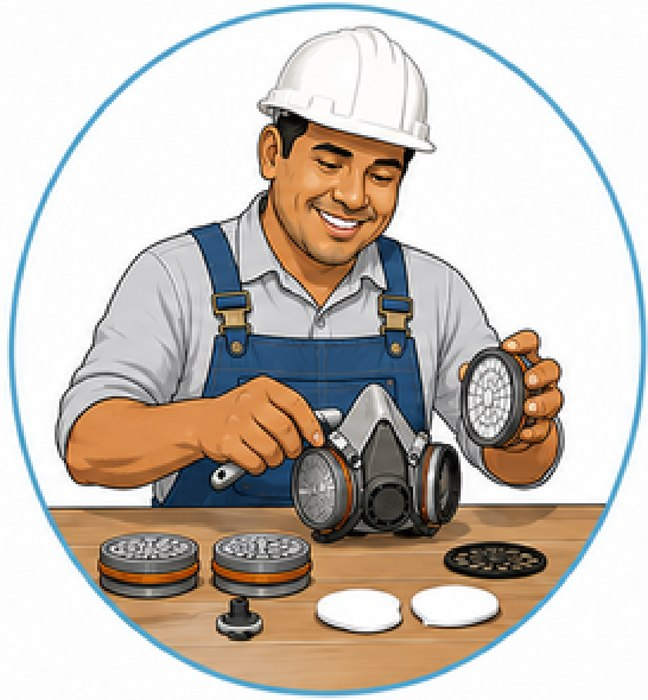
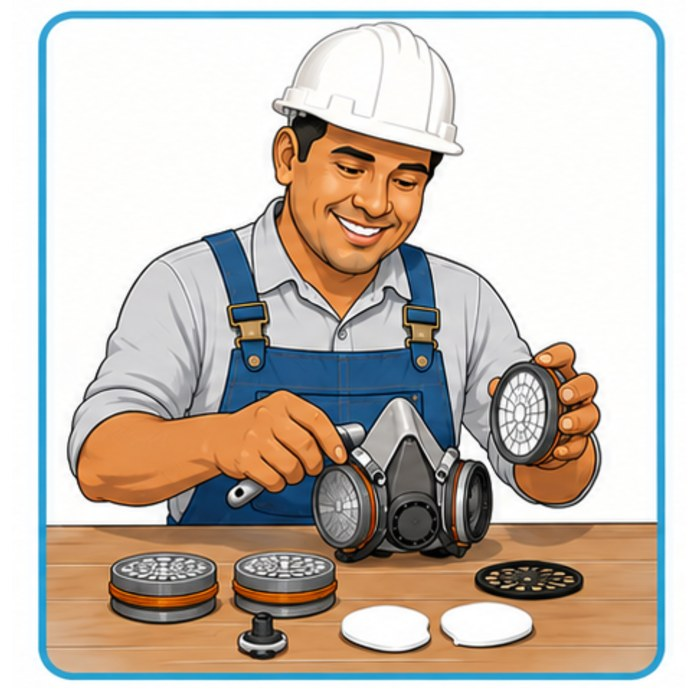
Corrige recorte dos ícones de Higienização e Ensaio de Vedação - par 17/18
Troca object-cover por object-contain nos ícones de etapas de
higienização e de ensaio de vedação: eram fotos não-quadradas exibidas
em caixa quadrada fixa, cortando parte do conteúdo original.

diff --git a/src/components/training/ppr-pages-b.tsx b/src/components/training/ppr-pages-b.tsx
@@ -354,7 +354,7 @@ export function Page13({ onNext, onBackToStart }: PageProps) {
               width={512}
               height={512}
               loading="lazy"
-              className="mx-auto mb-2 size-24 rounded-xl border-2 border-sky-200 object-cover shadow-panel"
+              className="mx-auto mb-2 size-24 rounded-xl border-2 border-sky-200 bg-white object-contain shadow-panel"
             />
             <p className="mb-1 text-center text-xs font-semibold text-brand-deep">Etapa {i + 1}</p>
             {etapa.texto}
@@ -380,7 +380,7 @@ export function Page13({ onNext, onBackToStart }: PageProps) {
                 width={400}
                 height={400}
                 loading="lazy"
-                className="mx-auto mb-2 size-28 rounded-xl border-2 border-sky-200 object-cover shadow-panel"
+                className="mx-auto mb-2 size-28 rounded-xl border-2 border-sky-200 bg-white object-contain shadow-panel"
               />
               <button
                 type="button"
